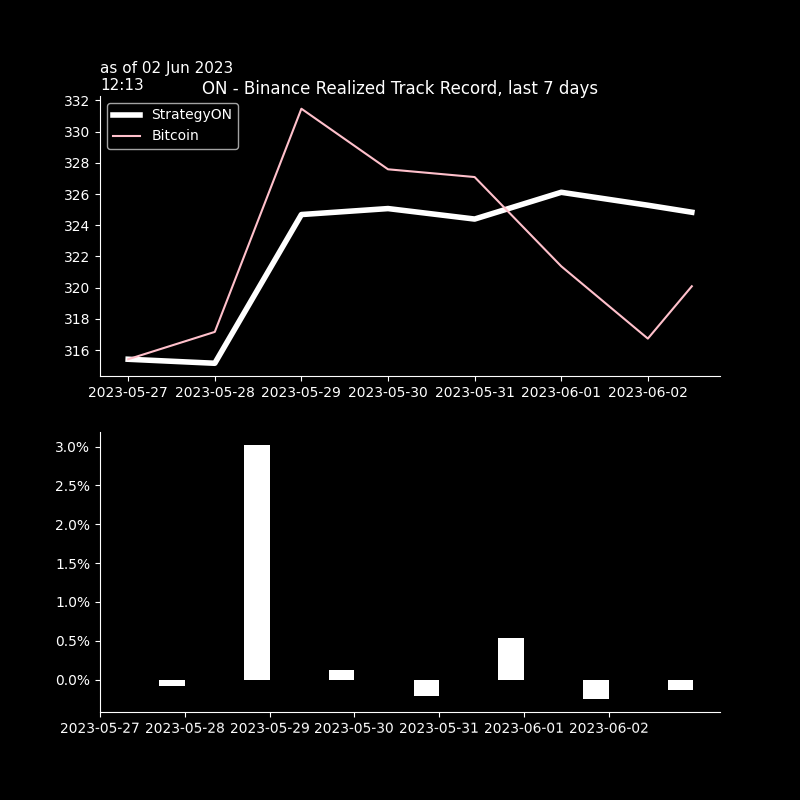
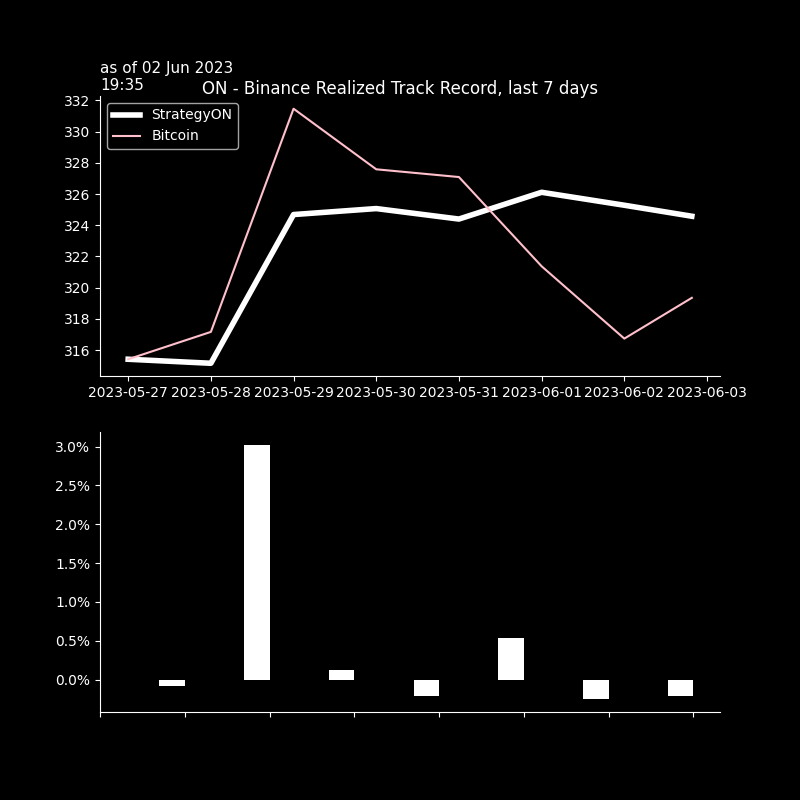
seb_commit

diff --git a/crypto/graphs/bt_trades_book.htmltrade_trades_book.html b/crypto/graphs/bt_trades_book.htmltrade_trades_book.html
@@ -37,21 +37,55 @@
   </thead>
   <tbody>
     <tr>
+      <th>BTCUSDT</th>
+      <td>27045.1000</td>
+      <td>2023-06-02 18:32:58</td>
+      <td>0.006</td>
+      <td>$162.3</td>
+      <td>$0.03</td>
+      <td>1.6</td>
+      <td>0.0</td>
+      <td>27014.85000</td>
+      <td>2023-06-02 19:31</td>
+      <td>-0.2</td>
+      <td>-11.0</td>
+      <td>27026.</td>
+      <td>-0.1</td>
+      <td>-7.0</td>
+    </tr>
+    <tr>
       <th>XRPUSDT</th>
-      <td>0.5146</td>
-      <td>2023-06-02 02:32:59</td>
-      <td>80.4</td>
-      <td>$41.4</td>
-      <td>$0.01</td>
-      <td>2.0</td>
-      <td>-0.4</td>
-      <td>0.51465</td>
-      <td>2023-06-02 03:32</td>
+      <td>0.5183</td>
+      <td>2023-06-02 18:35:05</td>
+      <td>313.700</td>
+      <td>$162.6</td>
+      <td>$0.03</td>
+      <td>1.6</td>
       <td>0.0</td>
+      <td>0.51785</td>
+      <td>2023-06-02 19:31</td>
+      <td>-0.1</td>
+      <td>-9.0</td>
+      <td>.5182</td>
+      <td>-0.0</td>
+      <td>-2.0</td>
+    </tr>
+    <tr>
+      <th>ETHUSDT</th>
+      <td>1893.4100</td>
+      <td>2023-06-02 18:33:06</td>
+      <td>0.086</td>
+      <td>$162.8</td>
+      <td>$0.03</td>
+      <td>1.6</td>
       <td>0.0</td>
-      <td>.5146</td>
-      <td>-0.0</td>
-      <td>-0.0</td>
+      <td>1890.59500</td>
+      <td>2023-06-02 19:31</td>
+      <td>-0.2</td>
+      <td>-15.0</td>
+      <td>1892.6</td>
+      <td>-0.1</td>
+      <td>-4.0</td>
     </tr>
   </tbody>
 </table>

diff --git a/crypto/graphs/bt_trades_recap.htmltrade_trades_recap.html b/crypto/graphs/bt_trades_recap.htmltrade_trades_recap.html
@@ -9,23 +9,23 @@
   <tbody>
     <tr>
       <th>as of</th>
-      <td>02Jun 02:32&gt;&gt;02:32</td>
-      <td>#trades: 1</td>
+      <td>02Jun 18:32&gt;&gt;18:35</td>
+      <td>#trades: 3</td>
     </tr>
     <tr>
       <th>trade net</th>
-      <td>+41.0</td>
-      <td>+12.6%</td>
+      <td>+488.0</td>
+      <td>+150.2%</td>
     </tr>
     <tr>
       <th>trade gross</th>
-      <td>+41.0</td>
-      <td>+12.6%</td>
+      <td>+488.0</td>
+      <td>+150.2%</td>
     </tr>
     <tr>
       <th>BUY</th>
-      <td>+41.0</td>
-      <td>+12.6%</td>
+      <td>+488.0</td>
+      <td>+150.2%</td>
     </tr>
     <tr>
       <th>SELL</th>
@@ -34,8 +34,8 @@
     </tr>
     <tr>
       <th>fees</th>
-      <td>$ 0.008</td>
-      <td>2.0bp</td>
+      <td>$ 0.078</td>
+      <td>1.6bp</td>
     </tr>
   </tbody>
 </table>

diff --git a/crypto/graphs/bt_trades_pnlD_recap.htmltrade_trades_pnlD_recap.html b/crypto/graphs/bt_trades_pnlD_recap.htmltrade_trades_pnlD_recap.html
@@ -1,7 +1,7 @@
 <table border="1" class="dataframe">
   <thead>
     <tr style="text-align: right;">
-      <th>02 Jun 03:33</th>
+      <th>02 Jun 19:35</th>
       <th>realizedPnl</th>
       <th>PnLvsArrival</th>
       <th>PnLvsLast</th>
@@ -10,21 +10,21 @@
   <tbody>
     <tr>
       <th>in$</th>
-      <td>-0.4</td>
       <td>0.0</td>
-      <td>0.0</td>
+      <td>-0.6</td>
+      <td>-0.2</td>
     </tr>
     <tr>
-      <th>in bp 41 traded</th>
-      <td>-106 bp</td>
+      <th>in bp 487 traded</th>
       <td>0 bp</td>
-      <td>0 bp</td>
+      <td>-11 bp</td>
+      <td>-4 bp</td>
     </tr>
     <tr>
       <th>in bp 324 AUMs</th>
-      <td>-14 bp</td>
       <td>0 bp</td>
-      <td>0 bp</td>
+      <td>-17 bp</td>
+      <td>-6 bp</td>
     </tr>
   </tbody>
 </table>
